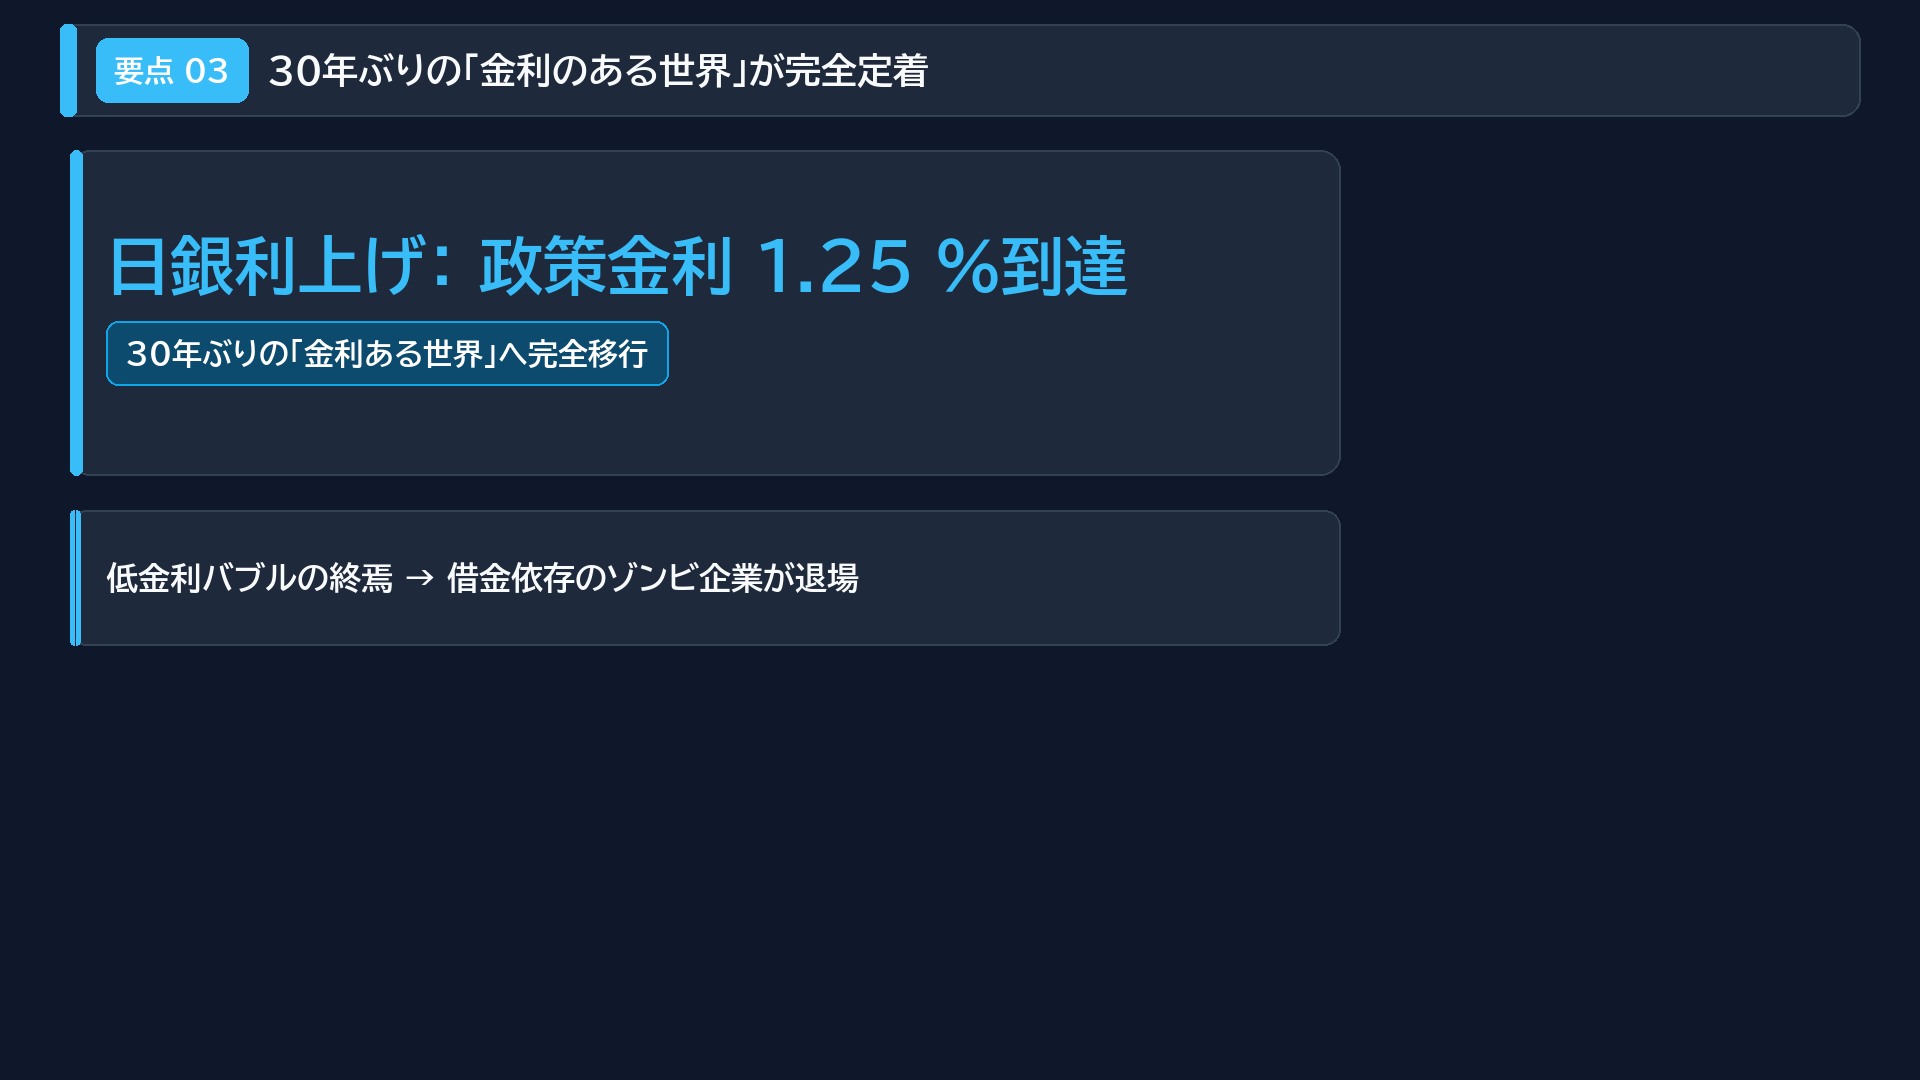
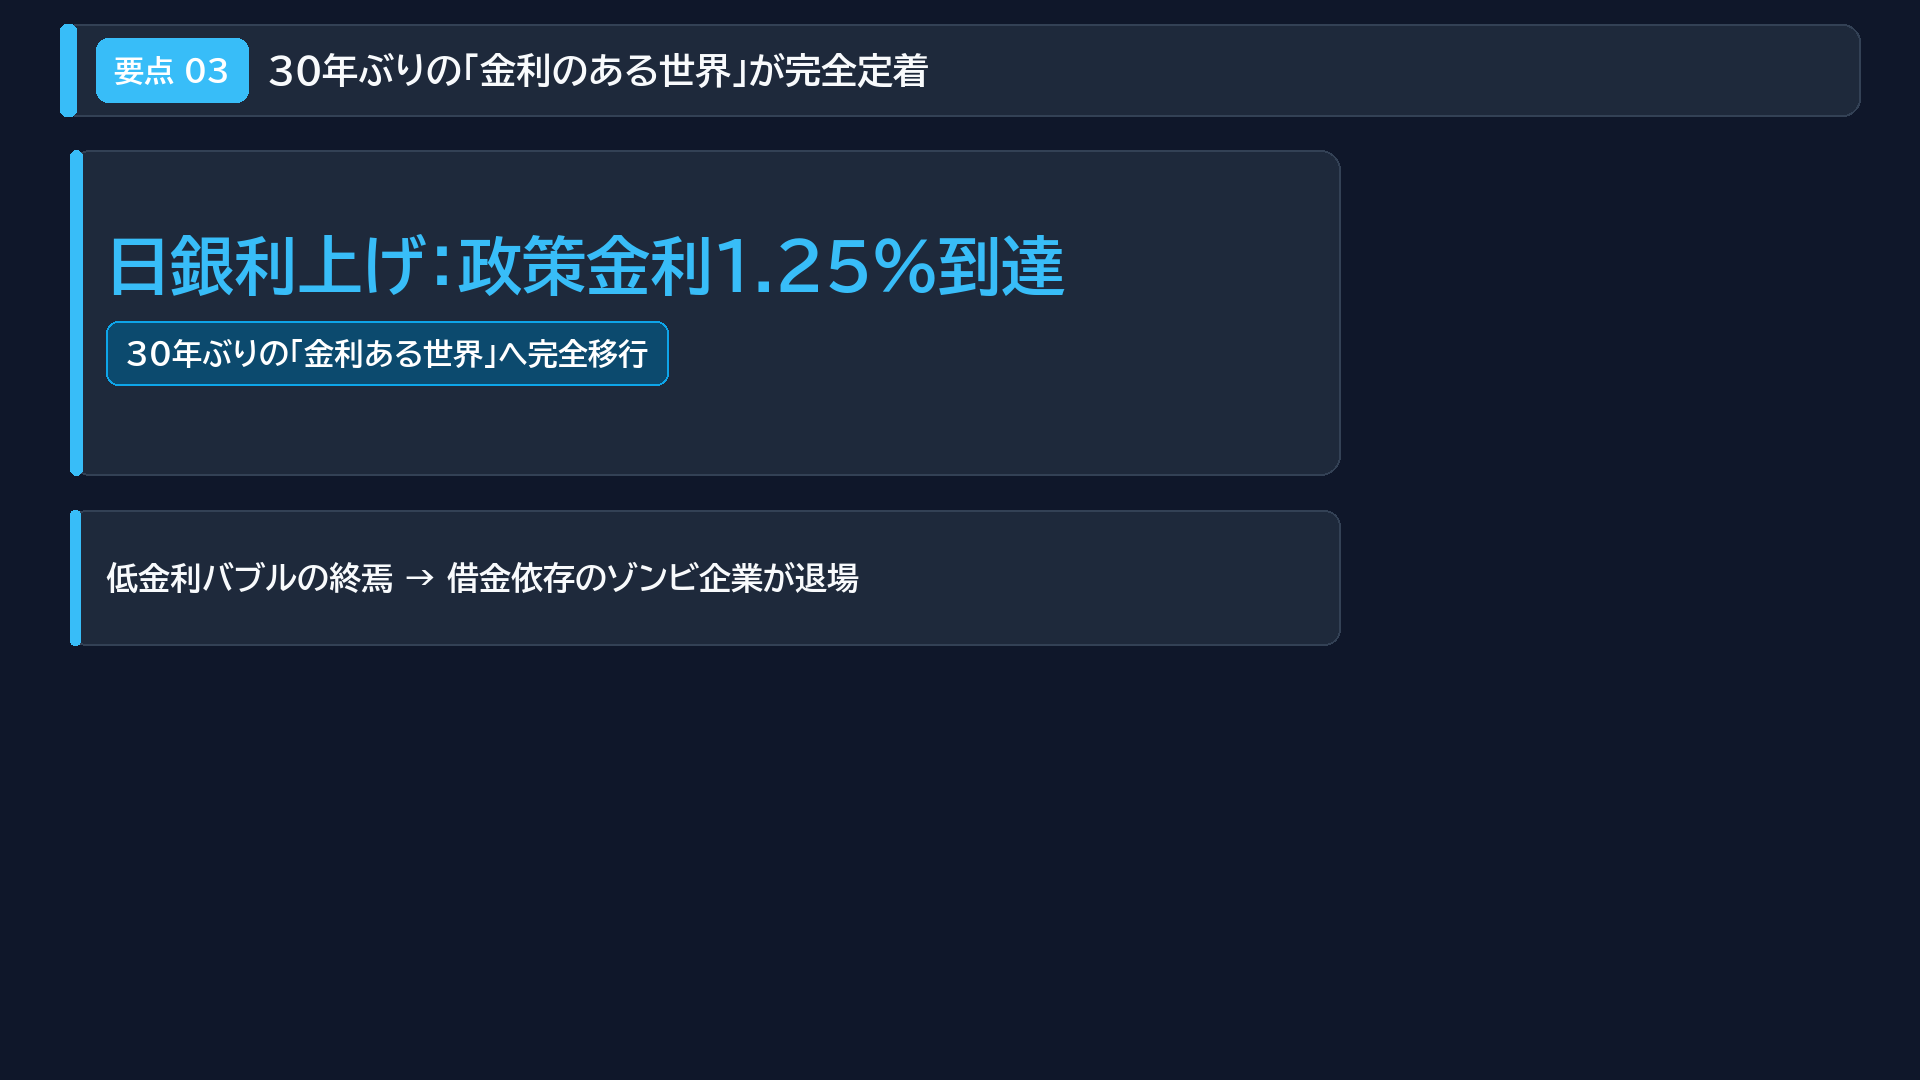
fix(typography): naturalize 3つの条件 and half-width alphanumeric kerning

Changed region(s): [[0.2188, 0.2139, 0.5938, 0.275]]

diff --git a/generate_broll_hd.py b/generate_broll_hd.py
@@ -27,7 +27,7 @@ def generate_market_regime_overview(out_path: Path):
     ]
     render_overview_slide(
         out_path=out_path,
-        title="2026年 株式市場の現在地と３大変化",
+        title="2026年 株式市場の現在地と3大変化",
         cards=cards,
         theme_color=ACCENT_BLUE
     )
@@ -37,7 +37,7 @@ def generate_market_regime_pt1(out_path: Path):
         out_path=out_path,
         title="世界最高峰の金融引き締めが長期化",
         step_tag="要点 01",
-        hero_metric="米国政策金利： 3.75 〜 4.00 ％",
+        hero_metric="米国政策金利：3.75〜4.00%",
         status_pill="インフレ高止まりにより「高金利が長期固定化」",
         impact_tag="",
         impact_text="企業の利払い負担が倍増 → 財務脆弱な企業を容赦なく淘汰",
@@ -49,7 +49,7 @@ def generate_market_regime_pt2(out_path: Path):
         out_path=out_path,
         title="地政学リスクによるエネルギー価格の再燃",
         step_tag="要点 02",
-        hero_metric="原油価格： 1バレル 100ドル突破",
+        hero_metric="原油価格：1バレル100ドル突破",
         status_pill="エネルギー・物流コストのインフレ圧力が世界的に再燃",
         impact_tag="",
         impact_text="コスト高騰が直撃 → 価格転嫁できない企業から脱落",
@@ -61,7 +61,7 @@ def generate_market_regime_pt3(out_path: Path):
         out_path=out_path,
         title="30年ぶりの「金利のある世界」が完全定着",
         step_tag="要点 03",
-        hero_metric="日銀利上げ： 政策金利 1.25 ％到達",
+        hero_metric="日銀利上げ：政策金利1.25%到達",
         status_pill="30年ぶりの「金利ある世界」へ完全移行",
         impact_tag="",
         impact_text="低金利バブルの終焉 → 借金依存のゾンビ企業が退場",
@@ -70,12 +70,12 @@ def generate_market_regime_pt3(out_path: Path):
 
 def generate_ai_phase_overview(out_path: Path):
     cards = [
-        ("第１期", "設備投資の熱狂（2024〜2025年）", ACCENT_VIOLET),
-        ("第２期", "投資回収（ROI）の試練（2026年〜現在）", ACCENT_RED),
+        ("第1期", "設備投資の熱狂（2024〜2025年）", ACCENT_VIOLET),
+        ("第2期", "投資回収（ROI）の試練（2026年〜現在）", ACCENT_RED),
     ]
     render_overview_slide(
         out_path=out_path,
-        title="AI市場は『選別の第２期』へ突入",
+        title="AI市場は『選別の第2期』へ突入",
         cards=cards,
         theme_color=ACCENT_VIOLET
     )
@@ -84,7 +84,7 @@ def generate_ai_phase_pt1(out_path: Path):
     render_metric_slide(
         out_path=out_path,
         title="設備投資の熱狂相場（2024〜2025年）",
-        step_tag="第１期",
+        step_tag="第1期",
         hero_metric="半導体・GPUの買い漁り熱狂",
         status_pill="『AI』の看板だけで資金が殺到した初期ブーム",
         impact_tag="",
@@ -96,7 +96,7 @@ def generate_ai_phase_pt2(out_path: Path):
     render_metric_slide(
         out_path=out_path,
         title="投資回収（ROI）の過酷な試練（2026年〜現在）",
-        step_tag="第２期",
+        step_tag="第2期",
         hero_metric="年間5,000億ドルの回収要求",
         status_pill="「そのAIで実際にいくら利益が増えたのか？」の検証期",
         impact_tag="",
@@ -112,7 +112,7 @@ def generate_checklist_overview(out_path: Path):
     ]
     render_overview_slide(
         out_path=out_path,
-        title="高金利時代に勝つ「優良企業の３条件」",
+        title="高金利時代に勝つ「優良企業の3つの条件」",
         cards=cards,
         theme_color=ACCENT_GREEN
     )

diff --git a/veraxi_ymmp/utils.py b/veraxi_ymmp/utils.py
@@ -14,3 +14,41 @@ def ensure_path(path: Union[str, Path]) -> Path:
 def resolve_path(path: Union[str, Path]) -> Path:
     """Convert to Path and resolve to absolute path."""
     return ensure_path(path).resolve()
+
+
+import re
+
+def normalize_japanese_typography(text: str) -> str:
+    """
+    Normalizes Japanese script typography according to standard digital editorial rules:
+    - Normalizes awkward counter idioms (e.g. 3条件/３条件 -> 3つの条件)
+    - Converts full-width alphanumeric characters (０-９, Ａ-Ｚ, ａ-ｚ) to standard half-width ASCII
+    - Normalizes full-width percent sign (％ -> %)
+    - Removes artificial whitespace between Japanese kana/kanji and ASCII words/numbers
+    """
+    if not text:
+        return ""
+
+    # Standardize phrasing to natural Japanese idiom
+    t = text.replace("3条件", "3つの条件").replace("３条件", "3つの条件")
+
+    # Full-width alphanumeric & symbols to standard half-width ASCII
+    def _to_half(m):
+        c = m.group(0)
+        code = ord(c)
+        if 0xFF10 <= code <= 0xFF19:  # 0-9
+            return chr(code - 0xFF10 + 0x30)
+        elif 0xFF21 <= code <= 0xFF3A:  # A-Z
+            return chr(code - 0xFF21 + 0x41)
+        elif 0xFF41 <= code <= 0xFF5A:  # a-z
+            return chr(code - 0xFF41 + 0x61)
+        elif code == 0xFF05:  # ％
+            return "%"
+        return c
+
+    t = re.sub(r"[０-９Ａ-Ｚａ-ｚ％]", _to_half, t)
+
+    # Clean up artificial whitespace between Japanese characters and numbers/Latin words
+    t = re.sub(r"([ぁ-んァ-ヶ一-龥])\s+([A-Za-z0-9])", r"\1\2", t)
+    t = re.sub(r"([A-Za-z0-9])\s+([ぁ-んァ-ヶ一-龥])", r"\1\2", t)
+    return t

diff --git a/veraxi_ymmp/compiler.py b/veraxi_ymmp/compiler.py
@@ -33,7 +33,7 @@ from .hatsuon import Hatsuon, HatsuonError
 from dataclasses import dataclass
 from .voicevox import VoicevoxClient, TTSBackend
 from .config import CompilerConfig
-from .utils import resolve_path, ensure_path
+from .utils import resolve_path, ensure_path, normalize_japanese_typography
 from .cache import TTSCache
 from .validation import validate_output_path, sanitize_filename
 from .logging import logger
@@ -196,7 +196,7 @@ class YMMPCompiler:
                     logger.warning(msg)
                     self.warnings.append(msg)
 
-            text = line.get("text", "")
+            text = normalize_japanese_typography(line.get("text", ""))
             if not char_name:
                 continue
                 
@@ -571,7 +571,7 @@ class YMMPCompiler:
             char = clip.character
             frm = clip.start_frame
             lng = clip.length
-            txt = clip.text
+            txt = normalize_japanese_typography(clip.text)
             emo = clip.emotion
             a_path = clip.audio_path
             is_zunda = "ずんだ" in char
